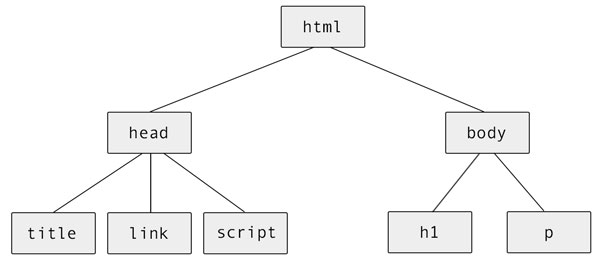
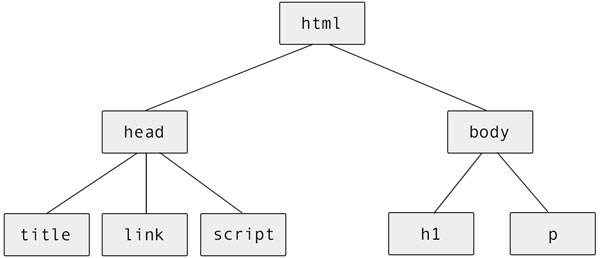
cache ajax requests

diff --git a/src/scripts/services/blogPostsFactory.js b/src/scripts/services/blogPostsFactory.js
@@ -1,6 +1,41 @@
 blogApp.factory("blogPostsFactory", ["$http", "$q", "POSTS_ROOT", "monthNamesFactory", function($http, $q, POSTS_ROOT, monthNamesFactory) {
 
-	var getSeriesData, getNumberOfArticlesPerSeries;
+	var processedData;
+
+	var processData, getSeriesData, getNumberOfArticlesPerSeries;
+
+	processData = function(data) {
+		var monthNames = monthNamesFactory();
+		var numberOfArticlesPerSeries = getNumberOfArticlesPerSeries(data);
+
+		// parse and add properties to blogPosts
+		for (var i = 0; i < data.blogPosts.length; i++) {
+			data.blogPosts[i].date = new Date(data.blogPosts[i].date);
+			
+			var dayOfMonth = data.blogPosts[i].date.getDate();
+			var month = monthNames[data.blogPosts[i].date.getMonth()];
+			var year = data.blogPosts[i].date.getFullYear();
+			data.blogPosts[i].dateFormatted = month + " " + dayOfMonth + ", " + year;
+
+			// TODO: properly encode routeparams
+			// data.blogPosts[i].routeParam = encodeURIComponent(data.blogPosts[i].title);
+			data.blogPosts[i].routeParam = data.blogPosts[i].title.replace(/\s/g, "-").toLowerCase();
+
+			data.blogPosts[i].includeUrl = POSTS_ROOT + data.blogPosts[i].routeParam + '.html';
+
+			if(data.blogPosts[i].partOfSeries) {
+				data.blogPosts[i].series = getSeriesData(data, data.blogPosts[i]); 
+			}
+		}
+
+		// parse and add properties to series
+		for (var j = 0; j < data.series.length; j++) {
+			data.series[j].numberOfArticles = numberOfArticlesPerSeries[data.series[j].id];
+			data.series[j].routeParam = data.series[j].title.replace(/\s/g, "-").toLowerCase();
+		}
+
+		processedData = data;
+	};
 
 	getSeriesData = function(data, post) {
 		var series = {};
@@ -35,47 +70,26 @@ blogApp.factory("blogPostsFactory", ["$http", "$q", "POSTS_ROOT", "monthNamesFac
 		return numberOfArticlesPerSeries;
 	};
 
-   	return function() {
-   		var defer = $q.defer();
 
-   		$http.get("http://localhost:8080/blogposts/blogposts.json")
-		.success(function(data) {
-			var monthNames = monthNamesFactory();
-			var numberOfArticlesPerSeries = getNumberOfArticlesPerSeries(data);
 
-			// parse and add properties to blogPosts
-			for (var i = 0; i < data.blogPosts.length; i++) {
-				data.blogPosts[i].date = new Date(data.blogPosts[i].date);
-				
-				var dayOfMonth = data.blogPosts[i].date.getDate();
-				var month = monthNames[data.blogPosts[i].date.getMonth()];
-				var year = data.blogPosts[i].date.getFullYear();
-				data.blogPosts[i].dateFormatted = month + " " + dayOfMonth + ", " + year;
-
-				// TODO: properly encode routeparams
-				// data.blogPosts[i].routeParam = encodeURIComponent(data.blogPosts[i].title);
-				data.blogPosts[i].routeParam = data.blogPosts[i].title.replace(/\s/g, "-").toLowerCase();
-
-				data.blogPosts[i].includeUrl = POSTS_ROOT + data.blogPosts[i].routeParam + '.html';
-
-				if(data.blogPosts[i].partOfSeries) {
-					data.blogPosts[i].series = getSeriesData(data, data.blogPosts[i]); 
-				}
-			}
-
-			// parse and add properties to series
-			for (var j = 0; j < data.series.length; j++) {
-				data.series[j].numberOfArticles = numberOfArticlesPerSeries[data.series[j].id];
-				data.series[j].routeParam = data.series[j].title.replace(/\s/g, "-").toLowerCase();
-			}
-
-			defer.resolve(data);
-		})
-		.error(function(data, status, headers, config) {
-			console.log("blogposts json http request failed in blogPostsFactory \nError: " + data);
-		});
-
-		return defer.promise;
-   	};
+	return function() {
+		if(processedData) { // return immediatelly resolved promise
+			var deferred = $q.defer();
+			deferred.resolve(processedData);
+			return deferred.promise;
+		}
+		else { // return ajax request promise
+			return $q(function(resolve, reject) {
+				$http.get("http://localhost:8080/blogposts/blogposts.json")
+				.success(function(data) {
+					processData(data);
+					resolve(data);
+				})
+				.error(function(data, status, headers, config) {
+					reject("blogposts json http request failed in blogPostsFactory \nError: " + data);
+				});
+			});
+		}
+	};
 
  }]);

diff --git a/blogPosts/post/Day-1:-What-websites-are-made-from.html b/blogPosts/post/Day-1:-What-websites-are-made-from.html
@@ -7,7 +7,7 @@
 	</footer>
 </blockquote>
 <p class="blogpost__intro">
-	I don’t have to tell you that the ability to build websites is an incredibly empowering skill. The idea of building things - especially things of your own design - that could potentially reach millions of people is an exhilarating one. When you get started building your first website though, it’s easy to get overwhelmed by all the information out there. Now before you get caught in tutorial paralysis though, let us get one thing straight: you don’t have to be a genius to build websites! What you do need, is to be determined. In the end, it’s all just a matter of breaking down problems into smaller problems, and then solving them one by one. So for this series, the problem we’ll solve is… how can we, without any prior knowledge in web development, build <a href="">this website</a> in 3 days time. We'll break this problem down into getting acquanted with the languages that make up any website (day 1), laying down the structure for our website and its styling along the way (day 2), and finally adding some interaction behavior to the mix before publishing it for the world to admire (day 3). When you’ve finished this series, you’re gonna look like you have magic powers compared to everyone else. So let’s get cracking..
+	I don’t have to tell you that the ability to build websites is an incredibly empowering skill. The idea of building things - especially things of your own design - that could potentially reach millions of people is an exhilarating one. When you get started building your first website though, it’s easy to get overwhelmed by all the information out there. Before you get caught in tutorial paralysis though, let us get one thing straight: you don’t have to be a genius to build websites! What you do need, is to be determined. In the end, it’s all just a matter of breaking down problems into smaller problems, and then solving them one by one. So for this series, the problem we’ll solve is… how can we, without any prior knowledge in web development, build <a href="">this website</a> in 3 days time. We'll break this problem down into getting acquanted with the languages that make up any website (day 1), laying down the structure for our website and its styling along the way (day 2), and finally adding some interaction behavior to the mix before publishing it for the world to admire (day 3). When you’ve finished this series, you’re gonna look like you have magic powers compared to everyone else. So let’s get cracking..
 </p>
 <h2>Browsers talk HTML</h2>
 <p>
@@ -197,7 +197,7 @@
 <style>
 	.blogpost__image--dom-tree img {
 		width: 600px;
-		height: 260px;
+		height: 258px;
 	}
 </style>
 <div class="blogpost__image-wrapper blogpost__image--dom-tree">

diff --git a/src/scripts/services/availabilityFactory.js b/src/scripts/services/availabilityFactory.js
@@ -1,38 +1,52 @@
 blogApp.factory("availabilityFactory", ["$http", "$q", "AVAILABILITY_ROOT", "monthNamesFactory", function($http, $q, AVAILABILITY_ROOT, monthNamesFactory) {
 
+	var processedData;
+
+	var processData;
+
+	processData = function(data) {
+		var monthNames = monthNamesFactory();
+
+		for (var i = 0; i < data.availabilities.length; i++) {
+			var availabilityDate = new Date(data.availabilities[i].date);
+
+			data.availabilities[i].month = monthNames[availabilityDate.getMonth()];
+			data.availabilities[i].year = availabilityDate.getFullYear();
+			data.availabilities[i].past = dateInPast(availabilityDate);
+		}
+
+		function dateInPast(date) {
+			if (date.getFullYear() === new Date().getFullYear()) {
+				return (date.getMonth() < new Date().getMonth());
+			}
+			else if (date.getFullYear() < new Date().getFullYear()){
+				return true;
+			}
+			else {
+				return false;
+			}
+		}
+
+		processedData = data;
+	};
+
    	return function() {
-   		var defer = $q.defer();
-
-   		$http.get("http://localhost:8080/availability/availabilities.json")
-		.success(function(data) {
-			var monthNames = monthNamesFactory();
-			
-			for (var i = 0; i < data.availabilities.length; i++) {
-				var availabilityDate = new Date(data.availabilities[i].date);
-
-				data.availabilities[i].month = monthNames[availabilityDate.getMonth()];
-				data.availabilities[i].year = availabilityDate.getFullYear();
-				data.availabilities[i].past = dateInPast(availabilityDate);
-			}
-
-			defer.resolve(data.availabilities);
-
-			function dateInPast(date) {
-				if (date.getFullYear() === new Date().getFullYear()) {
-					return (date.getMonth() < new Date().getMonth());
-				}
-				else if (date.getFullYear() < new Date().getFullYear()){
-					return true;
-				}
-				else {
-					return false;
-				}
-			}
-		})
-		.error(function(data, status, headers, config) {
-			console.log("availability json http request failed in availabilityFactory \nError: " + data);
-		});
-
-		return defer.promise;
+   		if(processedData) { // return immediatelly resolved promise
+			var deferred = $q.defer();
+			deferred.resolve(processedData.availabilities);
+			return deferred.promise;
+		}
+		else { // return ajax request promise
+			return $q(function(resolve, reject) {
+				$http.get("http://localhost:8080/availability/availabilities.json")
+				.success(function(data) {
+					processData(data);
+					resolve(data.availabilities);
+				})
+				.error(function(data, status, headers, config) {
+					console.log("availability json http request failed in availabilityFactory \nError: " + data);
+				});
+			});
+		}
    	};
  }]);

diff --git a/src/scripts/controllers/seriesRouteCtrl.js b/src/scripts/controllers/seriesRouteCtrl.js
@@ -1,11 +1,11 @@
-blogApp.controller("seriesRouteCtrl", ["$scope", "$routeParams", "$location", "blogPostsFactory", "$anchorScroll", function DefaultCtrl($scope, $routeParams, $location, blogPostsFactory, $anchorScroll) {
+blogApp.controller("seriesRouteCtrl", ["$scope", "$routeParams", "$location", "blogPostsFactory", "$anchorScroll", function seriesRouteCtrl($scope, $routeParams, $location, blogPostsFactory, $anchorScroll) {
 	'use strict';
 
 	var getCurrentSeries, getCurrentArticle, getSeriesArticles, setupSeriesPagination;
 
 	var allArticles;
 
-	var promise = blogPostsFactory().then(function(data) {
+	blogPostsFactory().then(function(data) {
 		allArticles = data.blogPosts;
 		// TODO: redirect to 404.html when series or article doesn't exist
 		$scope.currentSeries = getCurrentSeries(data.series, $routeParams.seriesRouteParam);

diff --git a/src/scripts/controllers/blogPostCtrl.js b/src/scripts/controllers/blogPostCtrl.js
@@ -1,9 +1,9 @@
-blogApp.controller("blogPostsCtrl", ["$scope", "blogPostsFactory", "$location", "$anchorScroll", function DefaultCtrl($scope, blogPostsFactory, $location, $anchorScroll) {
+blogApp.controller("blogPostsCtrl", ["$scope", "blogPostsFactory", "$location", "$anchorScroll", function blogPostsCtrl($scope, blogPostsFactory, $location, $anchorScroll) {
 	'use strict';
 
 	var setupPromisedScope;
 
-	var promise = blogPostsFactory().then(function(data) {
+	blogPostsFactory().then(function(data) {
 		setupPromisedScope(data);
 	}, function(error) {
 		console.log("promise for blogposts json http request failed to resolve in blogPostCtrl \nError: " + error);

diff --git a/blogPosts/post/Day-2:-Structure-and-styling.html b/blogPosts/post/Day-2:-Structure-and-styling.html
@@ -1,3 +1,11 @@
+<blockquote class="blogpost__indented">
+	<p>
+		For the things we have to learn before we can do them, we learn by doing them.
+	</p>
+	<footer>
+		<cite>-- Aristotle</cite>
+	</footer>
+</blockquote>
 <p class="blogpost__intro">
 	[we’ll focus on building the beginner page, before we start on out expert page on day 4. Today We’ll …]. Yesterday, we set out to build [link]this website in 3 days time. We now know what websites are made of. Now that we’ve gotten familiar with the building blocks of a website, the time has come to build one of our own. But before we go ahead and build up our website, let’s get ourselves organized…
 </p>

diff --git a/src/scripts/controllers/metaDataCtrl.js b/src/scripts/controllers/metaDataCtrl.js
@@ -1,7 +1,7 @@
-blogApp.controller("availabilityCtrl", ["$scope", "availabilityFactory", function availabilityCtrl($scope, availabilityFactory) {
+blogApp.controller("metaDataCtrl", ["$scope", "availabilityFactory", function metaDataCtrl($scope, availabilityFactory) {
 	'use strict';
 
-	availabilityFactory().then(function(availabilities) {
+	var promise = availabilityFactory().then(function(availabilities) {
 		$scope.availabilities = availabilities;
 	}, function(error) {
 		console.log("promise for availabilities json http request failed to resolve in availabilityCtrl \nError: " + error);

diff --git a/src/scripts/controllers/postRouteCtrl.js b/src/scripts/controllers/postRouteCtrl.js
@@ -1,4 +1,4 @@
-blogApp.controller("postRouteCtrl", ["$scope", "$routeParams", "$location", "blogPostsFactory", "$anchorScroll", function DefaultCtrl($scope, $routeParams, $location, blogPostsFactory, $anchorScroll) {
+blogApp.controller("postRouteCtrl", ["$scope", "$routeParams", "$location", "blogPostsFactory", "$anchorScroll", function postRouteCtrl($scope, $routeParams, $location, blogPostsFactory, $anchorScroll) {
 	'use strict';
 
 	var getCurrentArticle;

diff --git a/src/scripts/controllers/navbarCtrl.js b/src/scripts/controllers/navbarCtrl.js
@@ -1,4 +1,4 @@
-blogApp.controller("navbarCtrl", ["$scope", "$location", function DefaultCtrl($scope, $location) {
+blogApp.controller("navbarCtrl", ["$scope", "$location", function navbarCtrl($scope, $location) {
 	'use strict';
 
 	$scope.closeNav = function() {

diff --git a/index.html b/index.html
@@ -1,6 +1,6 @@
 <!DOCTYPE html>
 <html>
-<head>
+<head ng-controller="metaDataCtrl as metaDataCtrl">
 	<meta charset="utf-8">
 	<meta name=viewport content="width=device-width, initial-scale=1">
 	<title></title>
